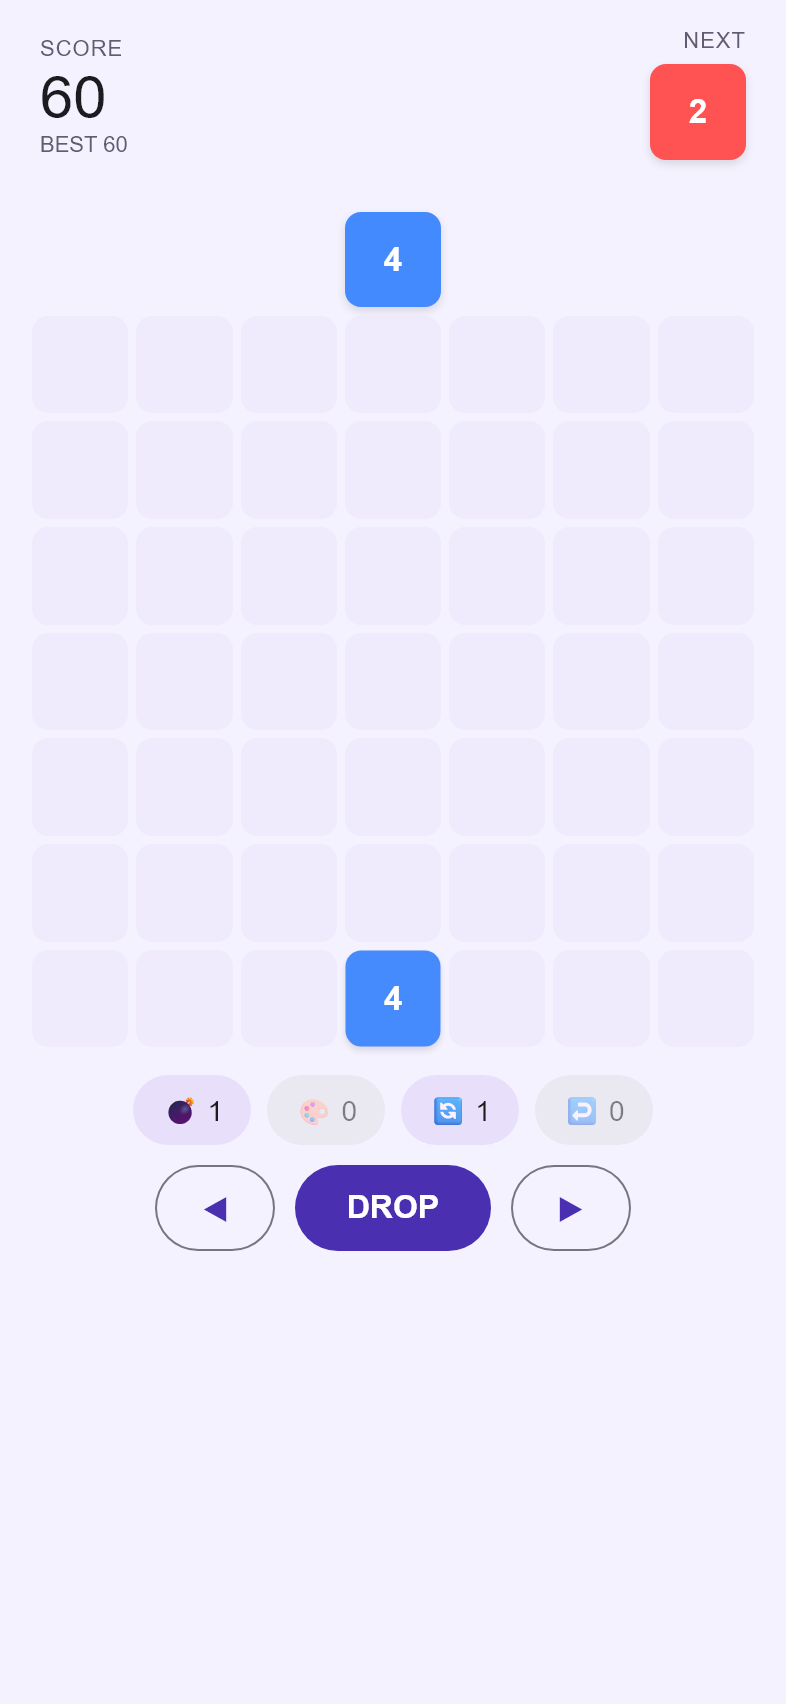
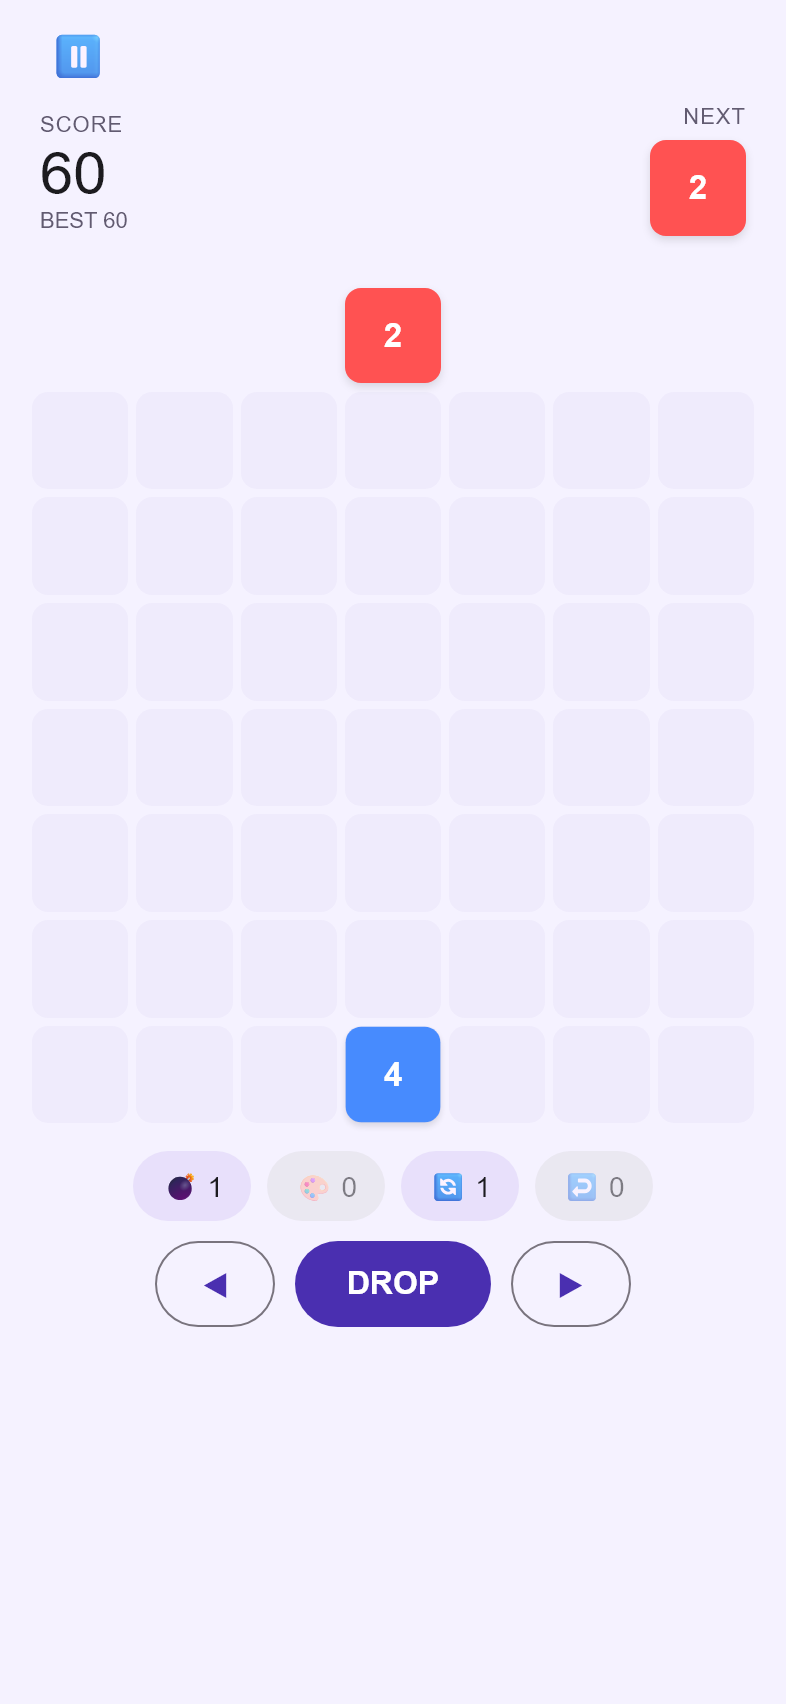
Update 1.0.1: mehr Funktionen

diff --git a/www/app.js b/www/app.js
@@ -6,18 +6,26 @@ const native = !!(Cap && Cap.isNativePlatform && Cap.isNativePlatform());
 const plug = (n) => (native && Cap.registerPlugin ? Cap.registerPlugin(n) : null);
 const Haptics = plug('Haptics'), Notif = plug('LocalNotifications'), Browser = plug('Browser');
 const W = 7, H = 7, MAXL = 12;
+const VERSION = '1.0.1';
+Object.assign(STR.en, { daily: 'DAILY CHALLENGE', daily_best: 'Today’s best %1$d', shop: 'Shop', shop_note: 'Spend your coins on power-ups for your next game or on new block styles.', buy: 'Buy', owned: 'Owned', use: 'Use', in_use: 'In use', not_enough: 'Not enough coins.', skins: 'Block styles', powerups: 'Power-ups', inv_note: 'Bought power-ups are added at the start of your next game.', reward: '+1 %1$s for %2$d points!', howto: 'How to play', howto_text: 'Move the falling block with ◀ ▶ or tap a column, then DROP.\n\nThree or more touching blocks with the same number merge into one block with double the value.\n\nMerges can trigger chain reactions – each wave raises the COMBO multiplier.\n\nFour blocks at once create a special block, five or more also clear the whole row.\n\nEvery 1,000 points you earn a random power-up. 💣 clears 3×3 blocks, 🎨 upgrades all blocks of one number, 🔄 shuffles the bottom two rows, ↩ takes back your last drop.\n\nThe game ends when a column is full to the top.', pause: 'Paused', resume: 'Resume', restart: 'Restart', settings_sound: 'Sound effects', version: 'Version %1$s', coins: '%1$d coins' });
+Object.assign(STR.de, { daily: 'TAGES-CHALLENGE', daily_best: 'Heute bester %1$d', shop: 'Shop', shop_note: 'Gib Münzen für Power-ups für dein nächstes Spiel oder für neue Block-Designs aus.', buy: 'Kaufen', owned: 'Gekauft', use: 'Verwenden', in_use: 'Aktiv', not_enough: 'Nicht genug Münzen.', skins: 'Block-Designs', powerups: 'Power-ups', inv_note: 'Gekaufte Power-ups kommen zu Beginn deines nächsten Spiels dazu.', reward: '+1 %1$s für %2$d Punkte!', howto: 'So wird gespielt', howto_text: 'Bewege den fallenden Block mit ◀ ▶ oder tippe eine Spalte an, dann ABLEGEN.\n\nDrei oder mehr sich berührende Blöcke mit gleicher Zahl verschmelzen zu einem Block mit doppeltem Wert.\n\nMerges können Kettenreaktionen auslösen – jede Welle erhöht den COMBO-Multiplikator.\n\nVier Blöcke auf einmal ergeben einen Spezialblock, fünf oder mehr räumen zusätzlich die ganze Reihe.\n\nAlle 1.000 Punkte bekommst du ein zufälliges Power-up. 💣 räumt 3×3 Blöcke, 🎨 wertet alle Blöcke einer Zahl auf, 🔄 mischt die unteren zwei Reihen, ↩ nimmt den letzten Zug zurück.\n\nDas Spiel endet, wenn eine Spalte bis oben voll ist.', pause: 'Pause', resume: 'Weiter', restart: 'Neu starten', settings_sound: 'Soundeffekte', version: 'Version %1$s', coins: '%1$d Münzen' });
+const SKINS = { classic: ['#FF5252', '#448AFF', '#69F0AE', '#FFD740', '#B388FF', '#40C4FF', '#FFAB40'], neon: ['#FF2E88', '#00E5FF', '#76FF03', '#FFEA00', '#D500F9', '#2979FF', '#FF9100'], pastel: ['#F4A6A6', '#A6C8F4', '#B5E8C8', '#F7E1A1', '#D2B8F2', '#A8E3EC', '#F8C9A0'], ocean: ['#0077B6', '#00B4D8', '#48CAE4', '#023E8A', '#90E0EF', '#03045E', '#0096C7'], sunset: ['#FF6B6B', '#FF8E53', '#FFC75F', '#F9F871', '#C34A36', '#845EC2', '#D65DB1'] };
+const SKIN_PRICE = { classic: 0, neon: 150, pastel: 150, ocean: 250, sunset: 400 };
+const PU_PRICE = { BOMB: 60, PAINT: 90, SHUFFLE: 40, UNDO: 70 };
+let rngSeed = null; function rng() { if (rngSeed == null) return Math.random(); rngSeed = (rngSeed * 1103515245 + 12345) & 0x7fffffff; return rngSeed / 0x80000000; }
+const dayKey = () => new Date().toISOString().slice(0, 10);
 const PRIVACY_URL = 'https://andiisharp.github.io/lumvero-apps/comet-merge-datenschutz.html';
 const $ = (s, r = document) => r.querySelector(s);
 const LS = { get(k, d) { try { const v = localStorage.getItem('cm.' + k); return v == null ? d : JSON.parse(v); } catch (e) { return d; } },
   set(k, v) { try { localStorage.setItem('cm.' + k, JSON.stringify(v)); } catch (e) {} } };
-let S = Object.assign({ haptics: true, reminder: false, theme: 'system' }, LS.get('settings', {}));
-let P = Object.assign({ coins: 0, xp: 0, highScore: 0, streak: 0, lastDay: -1, games: 0, merges: 0 }, LS.get('player', {}));
+let S = Object.assign({ haptics: true, reminder: false, theme: 'system', sound: true, skin: 'classic', howtoSeen: false }, LS.get('settings', {}));
+let P = Object.assign({ coins: 0, xp: 0, highScore: 0, streak: 0, lastDay: -1, games: 0, merges: 0, inv: { BOMB: 0, PAINT: 0, SHUFFLE: 0, UNDO: 0 }, skins: ['classic'], daily: {} }, LS.get('player', {}));
 let scores = LS.get('scores', []);
 let ach = LS.get('ach', {});
 const lang = () => ((navigator.language || 'en').toLowerCase().startsWith('de') ? 'de' : 'en');
 const t = (k, ...a) => { let s = (STR[lang()] && STR[lang()][k]) || STR.en[k] || k; return s.replace(/%(\d)\$[sd]/g, (m, n) => a[+n - 1]); };
 const COLORS = ['#FF5252', '#448AFF', '#69F0AE', '#FFD740', '#B388FF', '#40C4FF', '#FFAB40'];
-const colorOf = (l) => COLORS[(l - 1) % COLORS.length];
+const colorOf = (l) => (SKINS[S.skin] || COLORS)[(l - 1) % 7];
 const valOf = (l) => 2 ** l;
 function applyTheme() { const d = S.theme === 'dark' || (S.theme === 'system' && matchMedia('(prefers-color-scheme: dark)').matches); document.documentElement.dataset.theme = d ? 'dark' : 'light'; }
 matchMedia('(prefers-color-scheme: dark)').addEventListener('change', () => { applyTheme(); });
@@ -45,7 +53,7 @@ const empty = () => Array.from({ length: H }, () => Array(W).fill(null));
 function genBlock(moves) { // gewichteter Zufall: Top-Level steigt alle 5 Zuege, max. 6
   const top = Math.max(2, Math.min(6, Math.floor(moves / 5) + 2));
   const w = []; for (let i = 0; i < top; i++) w.push(1 << (top - 1 - i));
-  let roll = Math.floor(Math.random() * w.reduce((a, b) => a + b, 0));
+  let roll = Math.floor(rng() * w.reduce((a, b) => a + b, 0));
   for (let i = 0; i < top; i++) { if (roll < w[i]) return { l: i + 1 }; roll -= w[i]; }
   return { l: 1 };
 }
@@ -80,9 +88,11 @@ function settle(g) {
 const isFull = (g) => g[0].every((x) => x);
 
 let G = LS.get('game', null);
-function newGame() {
-  G = { grid: empty(), cur: genBlock(0), next: genBlock(0), score: 0, combo: 0, moves: 0, col: Math.floor(W / 2), pu: { BOMB: 1, PAINT: 0, SHUFFLE: 1, UNDO: 0 },
+function newGame(mode = 'classic') {
+  rngSeed = mode === 'daily' ? parseInt(dayKey().replace(/-/g, ''), 10) : null;
+  G = { mode, nextReward: 1000, grid: empty(), cur: genBlock(0), next: genBlock(0), score: 0, combo: 0, moves: 0, col: Math.floor(W / 2), pu: { BOMB: 1, PAINT: 0, SHUFFLE: 1, UNDO: 0 },
     stats: { merges: 0, combo: 0, top: 1, chain: 0 }, over: false, armed: null, undo: null };
+  if (mode !== 'daily') { for (const k of Object.keys(P.inv)) { G.pu[k] += P.inv[k]; P.inv[k] = 0; } LS.set('player', P); }
   save();
 }
 const save = () => LS.set('game', G);
@@ -92,6 +102,8 @@ function applyResult(res) {
   if (res.merges) { buzz(res.combo > 1 ? 30 : 15); unlock('first_merge'); }
   if (G.stats.combo >= 3) unlock('combo_3'); if (G.stats.combo >= 5) unlock('combo_5');
   if (G.stats.top >= 5) unlock('block_32'); if (G.stats.top >= 10) unlock('block_1024'); if (G.stats.chain >= 4) unlock('chain_4');
+  while (G.nextReward && G.score >= G.nextReward) { const ks = ['BOMB', 'PAINT', 'SHUFFLE', 'UNDO']; const k = ks[Math.floor(Math.random() * 4)]; G.pu[k]++; toast(t('reward', ({ BOMB: '💣', PAINT: '🎨', SHUFFLE: '🔄', UNDO: '↩' })[k], G.nextReward)); G.nextReward += 1000; sfx('reward'); }
+  if (res.merges) sfx(res.combo > 1 ? 'combo' : 'merge');
   if (G.score >= 1000) unlock('score_1k'); if (G.score >= 10000) unlock('score_10k'); if (G.score >= 50000) unlock('score_50k');
 }
 function drop() {
@@ -99,7 +111,7 @@ function drop() {
   G.undo = JSON.stringify({ grid: G.grid, cur: G.cur, next: G.next, score: G.score, moves: G.moves, stats: G.stats });
   let r = H - 1; while (G.grid[r][G.col]) r--;
   const g = G.grid.map((x) => x.slice()); g[r][G.col] = G.cur;
-  const res = settle(g); applyResult(res); buzz(8);
+  const res = settle(g); applyResult(res); buzz(8); sfx('drop');
   G.moves++; G.cur = G.next; G.next = genBlock(G.moves); G.col = Math.floor(W / 2);
   if (isFull(G.grid)) gameOver();
   save(); render();
@@ -109,14 +121,15 @@ function usePower(type, r, c) {
   if (type === 'BOMB') { const g = G.grid.map((x) => x.slice()); for (let y = r - 1; y <= r + 1; y++) for (let x = c - 1; x <= c + 1; x++) if (y >= 0 && y < H && x >= 0 && x < W) g[y][x] = null; applyResult(settle(gravity(g))); buzz(40); }
   else if (type === 'PAINT') { const from = G.grid[r][c] && G.grid[r][c].l; if (!from) return; const to = Math.min(from + 1, MAXL); const g = G.grid.map((row) => row.map((b) => (b && b.l === from ? { l: to, bomb: b.bomb } : b))); applyResult(settle(g)); }
   else if (type === 'SHUFFLE') { const g = G.grid.map((x) => x.slice()); const col = []; for (let y = H - 2; y < H; y++) for (let x = 0; x < W; x++) { if (g[y][x]) col.push(g[y][x]); g[y][x] = null; }
-    for (let i = col.length - 1; i > 0; i--) { const j = Math.floor(Math.random() * (i + 1)); [col[i], col[j]] = [col[j], col[i]]; }
+    for (let i = col.length - 1; i > 0; i--) { const j = Math.floor(rng() * (i + 1)); [col[i], col[j]] = [col[j], col[i]]; }
     let k = 0; for (let y = H - 1; y >= H - 2; y--) for (let x = 0; x < W; x++) if (k < col.length) g[y][x] = col[k++];
     applyResult(settle(gravity(g))); }
   else if (type === 'UNDO') { if (!G.undo) return; Object.assign(G, JSON.parse(G.undo)); G.undo = null; }
   G.pu[type]--; G.armed = null; save(); render();
 }
 function gameOver() {
-  G.over = true;
+  G.over = true; sfx('over');
+  if (G.mode === 'daily') { P.daily[dayKey()] = Math.max(P.daily[dayKey()] || 0, G.score); }
   const today = Math.floor((Date.now() - new Date().getTimezoneOffset() * 60000) / 86400000);
   P.streak = P.lastDay === today ? P.streak : P.lastDay === today - 1 ? P.streak + 1 : 1; P.lastDay = today;
   G.newBest = G.score > P.highScore;
@@ -135,21 +148,23 @@ const topBar = (title) => `<div class="top"><button class="back" data-go="menu" 
 function vMenu() {
   return `<div class="menu"><p class="logo" aria-label="${t('cd_app_logo')}">${t('menu_title')}</p><p class="sub">${t('menu_subtitle')}</p>
   <button class="btn big" data-act="play">${t('action_play')}</button>
+  <button class="btn out" data-act="daily">📅 ${t('daily')}${P.daily[dayKey()] ? ' · ' + t('daily_best', P.daily[dayKey()]) : ''}</button>
+  <button class="btn out" data-go="shop">🛒 ${t('shop')} · ${t('coins', P.coins)}</button>
   <button class="btn out" data-go="leaderboard">${t('action_leaderboard')}</button><button class="btn out" data-go="achievements">${t('achievements_title')}</button>
-  <button class="btn out" data-go="stats">${t('action_stats')}</button><button class="btn out" data-go="settings">${t('action_settings')}</button></div>`;
+  <button class="btn out" data-go="stats">${t('action_stats')}</button><button class="btn out" data-go="settings">${t('action_settings')}</button><button class="btn out" data-go="howto">${t('howto')}</button></div>`;
 }
 function vGame() {
   const g = G; const best = Math.max(P.highScore, g.score);
   let fall = ''; for (let c = 0; c < W; c++) fall += `<div class="cell" style="background:transparent">${c === g.col && !g.over ? blk(g.cur, 'prev') : ''}</div>`;
   let cells = ''; for (let r = 0; r < H; r++) for (let c = 0; c < W; c++) cells += `<div class="cell" data-cell="${r},${c}">${blk(g.grid[r][c])}</div>`;
   const icons = { BOMB: '💣', PAINT: '🎨', SHUFFLE: '🔄', UNDO: '↩' };
-  return `<div class="game"><div class="hud"><div><small>${t('hud_score')}</small><b>${g.score}</b><div class="best">${t('hud_best', best)}</div></div>
+  return `<div class="game"><div style="display:flex;justify-content:space-between;align-items:center"><button class="back" data-act="pause" aria-label="${t('pause')}">⏸</button><small style="color:var(--muted)">${g.mode === 'daily' ? t('daily') : ''}</small></div><div class="hud"><div><small>${t('hud_score')}</small><b>${g.score}</b><div class="best">${t('hud_best', best)}</div></div>
     <div class="next"><small>${t('hud_next')}</small><div class="nextb">${blk(g.next, 'prev')}</div></div></div>
     <div class="combo">${g.combo > 1 ? t('hud_combo', g.combo) : ''}</div>
     <div class="field ${g.armed ? 'armed' : ''}"><div class="fall">${fall}</div><div class="grid">${cells}</div></div>
     <div class="pups">${Object.keys(icons).map((k) => `<button class="pup ${g.pu[k] ? '' : 'off'} ${g.armed === k ? 'arm' : ''}" data-pu="${k}" aria-label="${k} (${g.pu[k]})">${icons[k]} ${g.pu[k]}</button>`).join('')}</div>
     <div class="ctrl"><button data-mv="-1" aria-label="${t('cd_move_left')}">${t('action_move_left')}</button><button class="drop" data-act="drop" aria-label="${t('cd_drop')}">${t('action_drop')}</button><button data-mv="1" aria-label="${t('cd_move_right')}">${t('action_move_right')}</button></div></div>
-    ${g.over ? `<div class="ov"><div class="card"><h2>${t('game_over_title')}</h2><p>${t('game_over_score', g.score)}</p>${g.newBest ? `<p class="nb">${t('game_over_new_best')}</p>` : `<p>${t('game_over_best', P.highScore)}</p>`}
+    ${paused && !g.over ? `<div class="ov"><div class="card"><h2>${t('pause')}</h2><button class="btn big" data-act="resume">${t('resume')}</button><button class="btn out" data-act="restart">${t('restart')}</button><button class="btn out" data-go="menu">${t('action_menu')}</button></div></div>` : ''}${g.over ? `<div class="ov"><div class="card"><h2>${t('game_over_title')}</h2><p>${t('game_over_score', g.score)}</p>${g.newBest ? `<p class="nb">${t('game_over_new_best')}</p>` : `<p>${t('game_over_best', P.highScore)}</p>`}
       <button class="btn big" data-act="again">${t('action_play_again')}</button><button class="btn out" data-go="menu">${t('action_menu')}</button></div></div>` : ''}`;
 }
 function vLeader() {
@@ -170,18 +185,25 @@ function vSettings() {
     <div class="row" style="border:0"><span>${t('settings_haptics')}</span><button class="sw ${S.haptics ? 'on' : ''}" data-sw="haptics" role="switch" aria-checked="${S.haptics}" aria-label="${t('settings_haptics')}"></button></div>
     <div class="row" style="border:0"><span>${t('settings_reminder')}</span><button class="sw ${S.reminder ? 'on' : ''}" data-sw="reminder" role="switch" aria-checked="${S.reminder}" aria-label="${t('settings_reminder')}"></button></div>
     <p id="remnote" class="note"></p>
+    <div class="row" style="border:0"><span>${t('settings_sound')}</span><button class="sw ${S.sound ? 'on' : ''}" data-sw="sound" role="switch" aria-checked="${S.sound}" aria-label="${t('settings_sound')}"></button></div>
     <h3 style="font-weight:500;margin:18px 0 6px">${t('settings_theme')}</h3>
     <div class="chips">${['system', 'light', 'dark'].map((k) => `<button class="chip ${S.theme === k ? 'on' : ''}" data-theme="${k}">${t('theme_' + k)}</button>`).join('')}</div>
-    <button class="link" data-act="privacy">${t('settings_privacy_policy')}</button></div>`;
+    <button class="link" data-act="privacy">${t('settings_privacy_policy')}</button><p class="note">${t('version', VERSION)}</p></div>`;
 }
 function render() {
   applyTheme();
   const a = $('#app');
-  a.innerHTML = ({ menu: vMenu, game: vGame, leaderboard: vLeader, achievements: vAch, stats: vStats, settings: vSettings }[screen] || vMenu)();
+  a.innerHTML = ({ menu: vMenu, game: vGame, leaderboard: vLeader, achievements: vAch, stats: vStats, settings: vSettings, shop: vShop, howto: vHowto }[screen] || vMenu)();
   a.querySelectorAll('[data-go]').forEach((b) => b.onclick = () => go(b.dataset.go));
   const act = (n, f) => a.querySelectorAll(`[data-act="${n}"]`).forEach((b) => b.onclick = f);
-  act('play', () => { if (!G || G.over) newGame(); go('game'); });
-  act('again', () => { newGame(); render(); });
+  act('play', () => { if (!G || G.over || G.mode === 'daily') newGame(); go('game'); if (!S.howtoSeen) { S.howtoSeen = true; LS.set('settings', S); go('howto'); } });
+  act('daily', () => { newGame('daily'); go('game'); });
+  act('pause', () => { paused = true; render(); });
+  act('resume', () => { paused = false; render(); });
+  act('restart', () => { paused = false; newGame(G.mode); render(); });
+  a.querySelectorAll('[data-buy]').forEach((b) => b.onclick = () => buy(b.dataset.buy));
+  a.querySelectorAll('[data-skin]').forEach((b) => b.onclick = () => { S.skin = b.dataset.skin; LS.set('settings', S); render(); });
+  act('again', () => { newGame(G.mode); render(); });
   act('drop', drop);
   act('privacy', () => { if (Browser) Browser.open({ url: PRIVACY_URL }); else window.open(PRIVACY_URL, '_blank'); });
   a.querySelectorAll('[data-mv]').forEach((b) => b.onclick = () => { if (G.over) return; G.col = Math.max(0, Math.min(W - 1, G.col + +b.dataset.mv)); buzz(5); save(); render(); });
@@ -205,3 +227,32 @@ async function toggle(k) {
 document.body.insertAdjacentHTML('beforeend', `<div class="splash" id="splash"><p class="logo">${t('splash_title')}</p></div>`);
 setTimeout(() => { const s = $('#splash'); s.style.opacity = '0'; setTimeout(() => s.remove(), 450); }, 900);
 render();
+
+// ---------- Update 1.0.1 ----------
+let paused = false;
+function toast(m) { let el = document.getElementById('toast'); if (!el) { el = document.createElement('div'); el.id = 'toast'; el.style.cssText = 'position:fixed;left:50%;top:calc(env(safe-area-inset-top) + 70px);transform:translateX(-50%);background:var(--primary);color:#fff;padding:10px 18px;border-radius:999px;font-weight:700;z-index:80;transition:opacity .3s'; document.body.appendChild(el); } el.textContent = m; el.style.opacity = '1'; clearTimeout(toast.t); toast.t = setTimeout(() => { el.style.opacity = '0'; }, 1800); }
+let AC = null;
+function sfx(kind) {
+  if (!S.sound) return;
+  try { AC = AC || new (window.AudioContext || window.webkitAudioContext)(); const o = AC.createOscillator(), g = AC.createGain(); const now = AC.currentTime;
+    const F = { drop: [220, 0.06], merge: [523, 0.12], combo: [784, 0.18], reward: [988, 0.25], over: [147, 0.5] }[kind] || [440, 0.1];
+    o.type = kind === 'over' ? 'sawtooth' : 'triangle'; o.frequency.setValueAtTime(F[0], now); if (kind !== 'drop') o.frequency.exponentialRampToValueAtTime(F[0] * (kind === 'over' ? 0.5 : 1.5), now + F[1]);
+    g.gain.setValueAtTime(0.12, now); g.gain.exponentialRampToValueAtTime(0.001, now + F[1]); o.connect(g); g.connect(AC.destination); o.start(now); o.stop(now + F[1] + 0.02);
+  } catch (e) {}
+}
+function buy(id) {
+  const [kind, k] = id.split(':'); const price = kind === 'pu' ? PU_PRICE[k] : SKIN_PRICE[k];
+  if (P.coins < price) { toast(t('not_enough')); return; }
+  P.coins -= price; if (kind === 'pu') P.inv[k]++; else { P.skins.push(k); S.skin = k; LS.set('settings', S); }
+  LS.set('player', P); sfx('reward'); buzz(20); render();
+}
+function vShop() {
+  const icons = { BOMB: '💣', PAINT: '🎨', SHUFFLE: '🔄', UNDO: '↩' };
+  return `<div class="page">${topBar(t('shop'))}<p class="note">${t('shop_note')}</p><p><b>${t('coins', P.coins)}</b></p>
+    <h3 style="font-weight:600">${t('powerups')}</h3><p class="note">${t('inv_note')}</p>
+    ${Object.keys(icons).map((k) => `<div class="row"><span>${icons[k]} × ${P.inv[k]}</span><button class="chip" data-buy="pu:${k}">${t('buy')} · ${PU_PRICE[k]} 🪙</button></div>`).join('')}
+    <h3 style="font-weight:600;margin-top:22px">${t('skins')}</h3>
+    ${Object.keys(SKINS).map((k) => `<div class="row"><span style="display:flex;gap:3px">${SKINS[k].slice(0, 5).map((c) => `<i style="display:inline-block;width:18px;height:18px;border-radius:4px;background:${c}"></i>`).join('')}&nbsp; ${k[0].toUpperCase() + k.slice(1)}</span>
+      ${P.skins.includes(k) ? (S.skin === k ? `<span class="note">${t('in_use')}</span>` : `<button class="chip" data-skin="${k}">${t('use')}</button>`) : `<button class="chip" data-buy="skin:${k}">${t('buy')} · ${SKIN_PRICE[k]} 🪙</button>`}</div>`).join('')}</div>`;
+}
+function vHowto() { return `<div class="page">${topBar(t('howto'))}${t('howto_text').split('\n\n').map((p) => `<p style="line-height:1.5">${p}</p>`).join('')}<button class="btn big" data-act="play">${t('action_play')}</button></div>`; }
